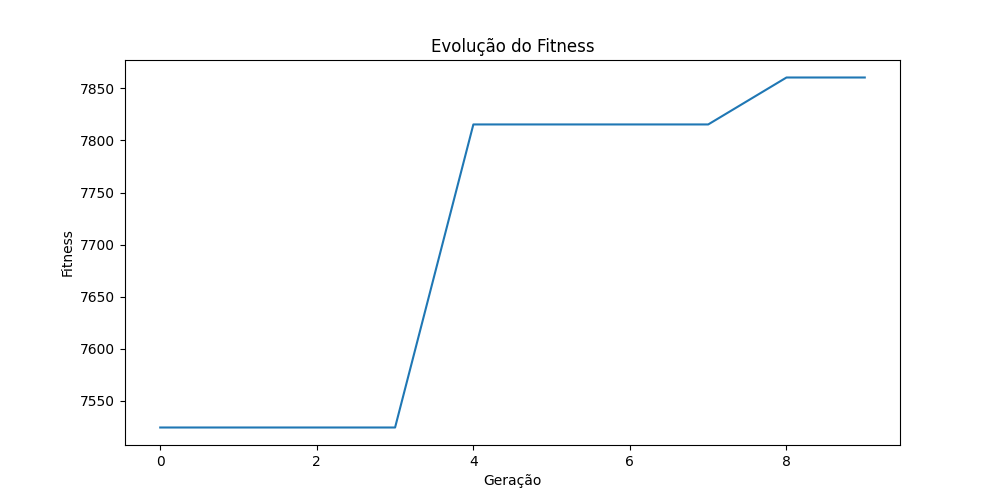
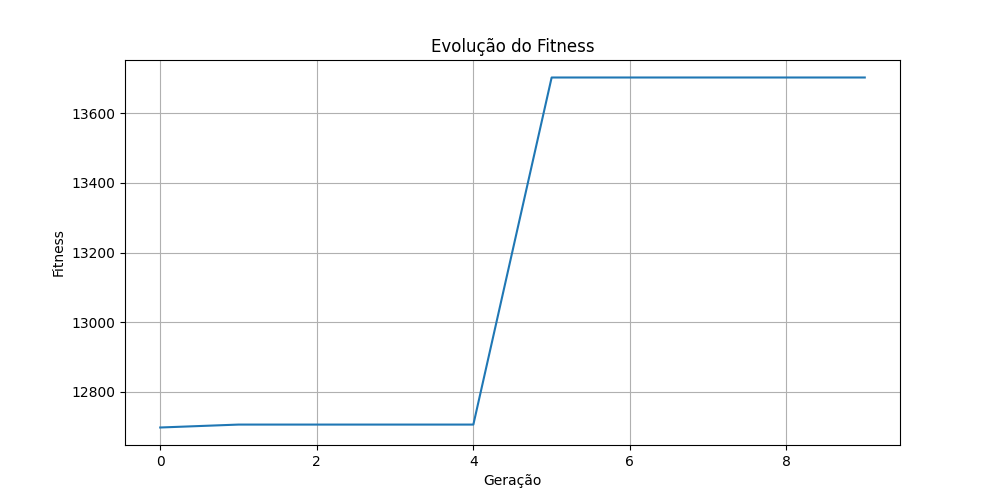
Updates

diff --git a/robo_exercicio.py b/robo_exercicio.py
@@ -701,89 +701,90 @@ class IndividuoPG:
             return individuo
 
 class ProgramacaoGenetica:
-    def __init__(self, tamanho_populacao=50, profundidade=3):
+    def __init__(self, tamanho_populacao=1000, profundidade_min=3, profundidade_max=6):
         # PARÂMETROS PARA O ALUNO MODIFICAR
         self.tamanho_populacao = tamanho_populacao
-        self.profundidade = profundidade
-        self.populacao = [IndividuoPG(profundidade) for _ in range(tamanho_populacao)]
-        self.melhor_individuo = None
-        self.melhor_fitness = float('-inf')
+        self.profundidade_min = profundidade_min
+        self.profundidade_max = profundidade_max
+        self.num_populacoes = 5  # Número de populações paralelas
+        self.populacoes = []
+        self.melhores_individuos = []
+        self.melhor_individuo_global = None
+        self.melhor_fitness_global = float('-inf')
         self.historico_fitness = []
+        
+        # Inicializar múltiplas populações
+        for _ in range(self.num_populacoes):
+            populacao = []
+            for _ in range(self.tamanho_populacao):
+                profundidade = random.randint(self.profundidade_min, self.profundidade_max)
+                populacao.append(IndividuoPG(profundidade))
+            self.populacoes.append(populacao)
     
     def avaliar_populacao(self):
         ambiente = Ambiente()
         robo = Robo(ambiente.largura // 2, ambiente.altura // 2)
         
-        for individuo in self.populacao:
-            fitness = 0
-            
-            # Simular 5 tentativas
-            for _ in range(5):
-                ambiente.reset()
-                robo.reset(ambiente.largura // 2, ambiente.altura // 2)
+        for i, populacao in enumerate(self.populacoes):
+            for individuo in populacao:
+                fitness = 0
                 
-                while True:
-                    # Obter sensores
-                    sensores = robo.get_sensores(ambiente)
+                # Simular 5 tentativas
+                for _ in range(5):
+                    ambiente.reset()
+                    robo.reset(ambiente.largura // 2, ambiente.altura // 2)
                     
-                    # Avaliar árvores de decisão
-                    aceleracao = individuo.avaliar(sensores, 'aceleracao')
-                    rotacao = individuo.avaliar(sensores, 'rotacao')
+                    while True:
+                        sensores = robo.get_sensores(ambiente)
+                        aceleracao = individuo.avaliar(sensores, 'aceleracao')
+                        rotacao = individuo.avaliar(sensores, 'rotacao')
+                        
+                        aceleracao = max(-1, min(1, aceleracao))
+                        rotacao = max(-0.5, min(0.5, rotacao))
+                        
+                        sem_energia = robo.mover(aceleracao, rotacao, ambiente)
+                        
+                        if sem_energia or ambiente.passo():
+                            break
                     
-                    # Limitar valores
-                    aceleracao = max(-1, min(1, aceleracao))
-                    rotacao = max(-0.5, min(0.5, rotacao))
+                    fitness_tentativa = (
+                        robo.recursos_coletados * 500 +
+                        robo.distancia_percorrida * 0.1 +
+                        (1000 - robo.tempo_parado) * 0.8 +
+                        robo.energia * 0.5 +
+                        (1000 - robo.colisoes * 50) +
+                        (10000 if robo.meta_atingida else 0)
+                    )
                     
-                    # Mover robô
-                    sem_energia = robo.mover(aceleracao, rotacao, ambiente)
+                    if robo.meta_atingida:
+                        fitness_tentativa += robo.energia * 2
+                        fitness_tentativa += (10 - min(robo.colisoes, 10)) * 100
+                        if robo.recursos_coletados == len(ambiente.recursos):
+                            fitness_tentativa += 2000
                     
-                    # Verificar fim da simulação
-                    if sem_energia or ambiente.passo():
-                        break
+                    fitness += max(0, fitness_tentativa)
                 
-                # Calcular fitness com pesos ajustados
-                fitness_tentativa = (
-                    robo.recursos_coletados * 500 +  # Aumentado para dar mais importância aos recursos
-                    robo.distancia_percorrida * 0.1 +  # Reduzido para não incentivar movimento desnecessário
-                    (1000 - robo.tempo_parado) * 0.8 +  # Aumentado para penalizar mais o tempo parado
-                    robo.energia * 0.5 +  # Aumentado para dar mais importância à eficiência energética
-                    (1000 - robo.colisoes * 50) +  # Aumentado para penalizar mais as colisões
-                    (10000 if robo.meta_atingida else 0)  # Aumentado significativamente para priorizar a meta
-                )
+                individuo.fitness = fitness / 5
                 
-                # Bônus por eficiência
-                if robo.meta_atingida:
-                    # Bônus por atingir a meta com energia
-                    fitness_tentativa += robo.energia * 2
-                    # Bônus por atingir a meta com poucas colisões
-                    fitness_tentativa += (10 - min(robo.colisoes, 10)) * 100
-                    # Bônus por coletar todos os recursos
-                    if robo.recursos_coletados == len(ambiente.recursos):
-                        fitness_tentativa += 2000
-                
-                fitness += max(0, fitness_tentativa)
-            
-            individuo.fitness = fitness / 5  # Média das 5 tentativas
-            
-            # Atualizar melhor indivíduo
-            if individuo.fitness > self.melhor_fitness:
-                self.melhor_fitness = individuo.fitness
-                self.melhor_individuo = individuo
+                # Atualizar melhor indivíduo global
+                if individuo.fitness > self.melhor_fitness_global:
+                    self.melhor_fitness_global = individuo.fitness
+                    self.melhor_individuo_global = individuo
     
-    def selecionar(self):
-        # Seleção por torneio com tamanho variável e elitismo
-        tamanho_torneio = 5  # Reduzido para menos pressão seletiva
+    def selecionar(self, populacao, geracao, n_geracoes):
+        # Tamanho do torneio dinâmico baseado na geração
+        tamanho_torneio = max(3, min(10, int(5 + (geracao / n_geracoes) * 5)))
         selecionados = []
 
         # Manter os 10% melhores indivíduos (elitismo ajustado)
         n_elite = max(1, int(self.tamanho_populacao * 0.10))
-        elite = sorted(self.populacao, key=lambda x: x.fitness, reverse=True)[:n_elite]
+        elite = sorted(populacao, key=lambda x: x.fitness, reverse=True)[:n_elite]
         selecionados.extend(elite)
 
         # Selecionar o resto por torneio
         while len(selecionados) < self.tamanho_populacao:
             # Seleção por torneio
-            torneio = random.sample(self.populacao, tamanho_torneio)
+            torneio = random.sample(populacao, tamanho_torneio)
             vencedor = max(torneio, key=lambda x: x.fitness)
             
             # Adicionar com probabilidade baseada no fitness
@@ -791,7 +792,7 @@ class ProgramacaoGenetica:
                 selecionados.append(vencedor)
             else:
                 # 20% de chance de selecionar um indivíduo aleatório para manter diversidade
-                selecionados.append(random.choice(self.populacao))
+                selecionados.append(random.choice(populacao))
 
         return selecionados
     
@@ -800,36 +801,57 @@ class ProgramacaoGenetica:
         for geracao in range(n_geracoes):
             print(f"Geração {geracao + 1}/{n_geracoes}")
             
-            # Avaliar população
+            # Avaliar todas as populações
             self.avaliar_populacao()
             
-            # Registrar melhor fitness
-            self.historico_fitness.append(self.melhor_fitness)
-            print(f"Melhor fitness: {self.melhor_fitness:.2f}")
+            # Registrar melhor fitness global
+            self.historico_fitness.append(self.melhor_fitness_global)
+            print(f"Melhor fitness global: {self.melhor_fitness_global:.2f}")
             
-            # Selecionar indivíduos
-            selecionados = self.selecionar()
-            
-            # Criar nova população
-            nova_populacao = []
-            
-            # Elitismo - manter o melhor indivíduo
-            nova_populacao.append(self.melhor_individuo)
-            
-            # Preencher o resto da população
-            while len(nova_populacao) < self.tamanho_populacao:
-                pai1, pai2 = random.sample(selecionados, 2)
-                filho = pai1.crossover(pai2)
+            # Evoluir cada população
+            novas_populacoes = []
+            for i, populacao in enumerate(self.populacoes):
+                # Selecionar indivíduos
+                selecionados = self.selecionar(populacao, geracao, n_geracoes)
                 
-                # Mutação adaptativa baseada na geração
-                prob_mutacao = 0.2 * (1 - geracao/n_geracoes)  # Diminui com o tempo
-                filho.mutacao(probabilidade=prob_mutacao)
+                # Criar nova população
+                nova_populacao = []
                 
-                nova_populacao.append(filho)
+                # Elitismo - manter o melhor indivíduo
+                melhor_local = max(populacao, key=lambda x: x.fitness)
+                nova_populacao.append(melhor_local)
+                
+                # Preencher o resto da população
+                while len(nova_populacao) < self.tamanho_populacao:
+                    pai1, pai2 = random.sample(selecionados, 2)
+                    filho = pai1.crossover(pai2)
+                    
+                    # Mutação adaptativa
+                    prob_mutacao = 0.2 * (1 - geracao/n_geracoes)
+                    filho.mutacao(probabilidade=prob_mutacao)
+                    
+                    nova_populacao.append(filho)
+                
+                novas_populacoes.append(nova_populacao)
             
-            self.populacao = nova_populacao
+            self.populacoes = novas_populacoes
+            
+            # Migração entre populações a cada 10 gerações
+            if geracao % 10 == 0:
+                self.migrar_individuos()
         
-        return self.melhor_individuo, self.historico_fitness
+        return self.melhor_individuo_global, self.historico_fitness
+    
+    def migrar_individuos(self):
+        # Migrar os melhores indivíduos entre populações
+        for i in range(self.num_populacoes):
+            melhor_individuo = max(self.populacoes[i], key=lambda x: x.fitness)
+            populacao_destino = (i + 1) % self.num_populacoes
+            pior_individuo = min(self.populacoes[populacao_destino], key=lambda x: x.fitness)
+            
+            # Substituir o pior indivíduo da população destino pelo melhor da população origem
+            idx_pior = self.populacoes[populacao_destino].index(pior_individuo)
+            self.populacoes[populacao_destino][idx_pior] = melhor_individuo
 
 # =====================================================================
 # PARTE 3: EXECUÇÃO DO PROGRAMA (PARA O ALUNO MODIFICAR)
@@ -844,10 +866,11 @@ if __name__ == "__main__":
     print("Treinando o algoritmo genético...")
     # Parâmetros otimizados
     pg = ProgramacaoGenetica(
-        tamanho_populacao=300,  # Aumentado para maior diversidade
-        profundidade=5  # Reduzido para evitar árvores muito complexas
+        tamanho_populacao=500,  # Aumentado para 500 indivíduos
+        profundidade_min=3,      # Profundidade mínima
+        profundidade_max=6       # Profundidade máxima
     )
-    melhor_individuo, historico = pg.evoluir(n_geracoes=10) 
+    melhor_individuo, historico = pg.evoluir(n_geracoes=50)  # aumentado para 50 gerações
     
     # Salvar o melhor indivíduo
     print("Salvando o melhor indivíduo...")

diff --git a/README.md b/README.md
@@ -40,3 +40,24 @@
 - Implementada seleção probabilística:
   * 80% de chance de selecionar o melhor do torneio
   * 20% de chance de selecionar aleatoriamente para manter diversidade
+
+7. Múltiplas Populações Paralelas
+- Implementado sistema de 5 populações paralelas
+- Adicionada migração de indivíduos entre populações a cada 10 gerações
+- Melhor indivíduo de cada população migra para a próxima população
+
+8. Parâmetros de Treinamento Otimizados
+- Ajustado tamanho da população para 500 indivíduos (era 300)
+- Ajustado número de gerações para 50 (era 10)
+- Implementada profundidade variável nas árvores:
+  * Profundidade mínima: 3
+  * Profundidade máxima: 6
+
+9. Seleção por Torneio Dinâmico
+- Tamanho do torneio varia de 3 a 10 baseado na geração atual
+- Fórmula: max(3, min(10, int(5 + (geracao / n_geracoes) * 5)))
+- Mantém pressão seletiva mais alta no início e mais baixa no final
+
+10. Sistema de Elitismo Global
+- Mantém registro do melhor indivíduo global entre todas as populações
+- Permite que o melhor indivíduo seja preservado independente da população
